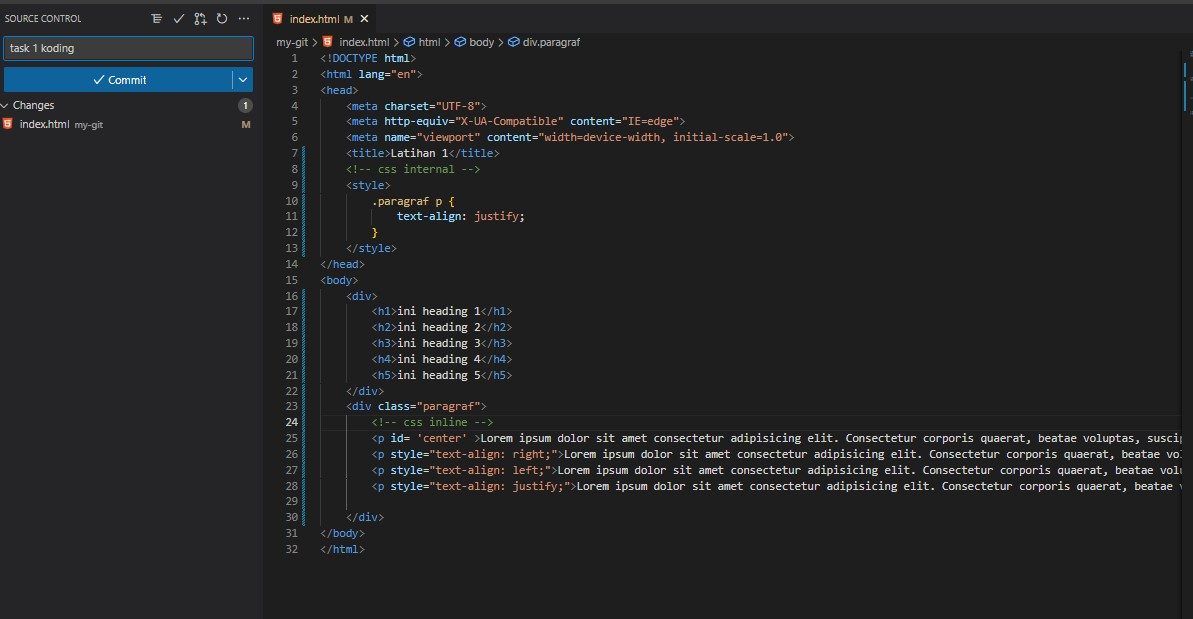
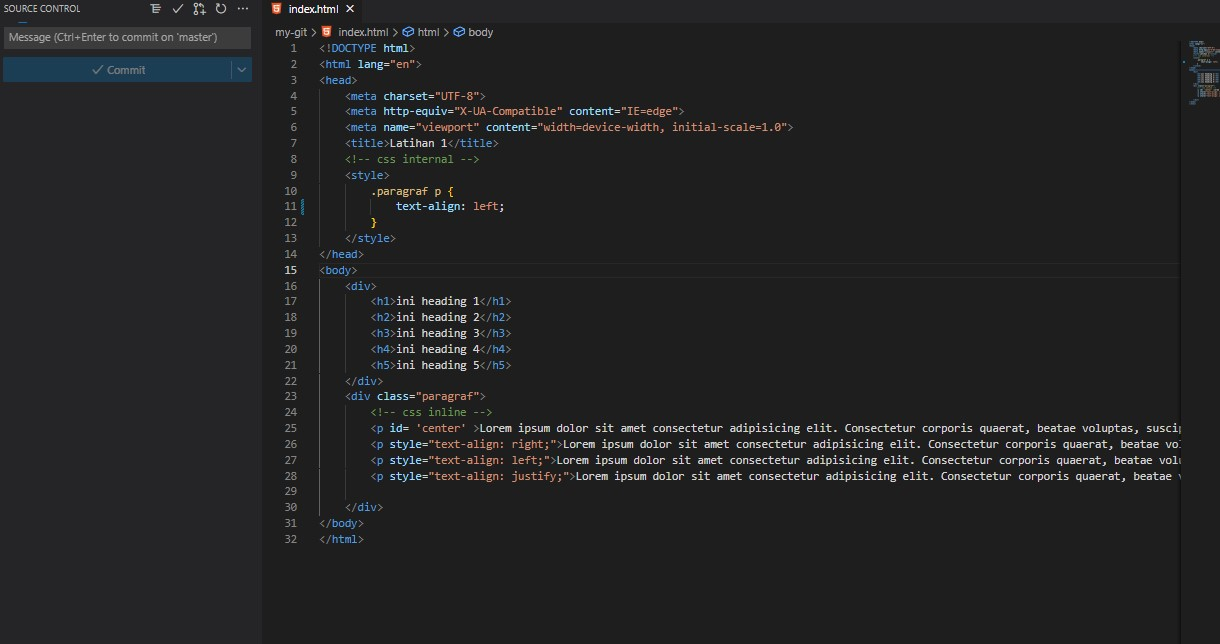
1

Changed region(s): [[0.0, 0.0, 0.9925, 0.8901], [0.9614, 0.0614, 1.0, 0.1842]]

diff --git a/my-git/index.html b/my-git/index.html
@@ -8,7 +8,7 @@
     <!-- css internal -->
     <style>
         .paragraf p {
-            text-align: justify;
+            text-align: left;
         }
     </style>
 </head>
